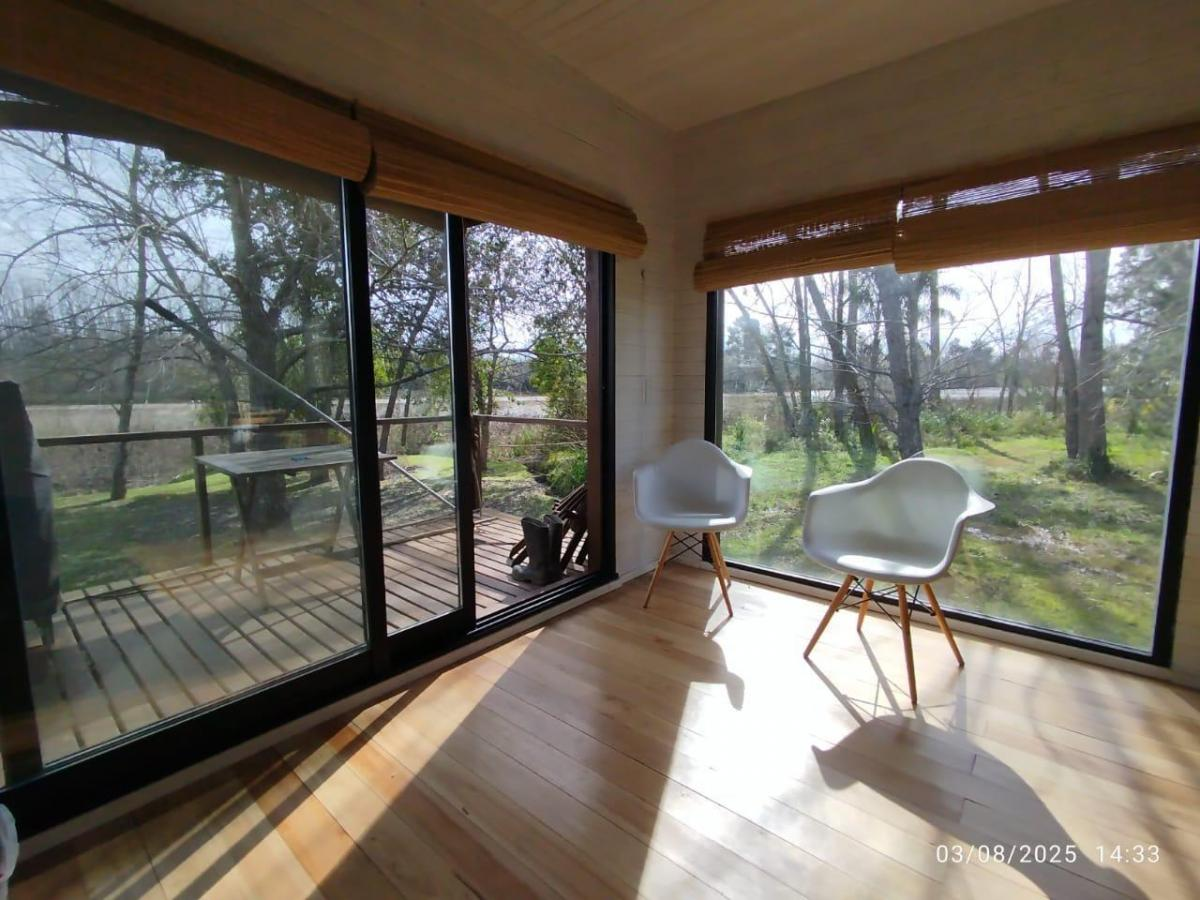
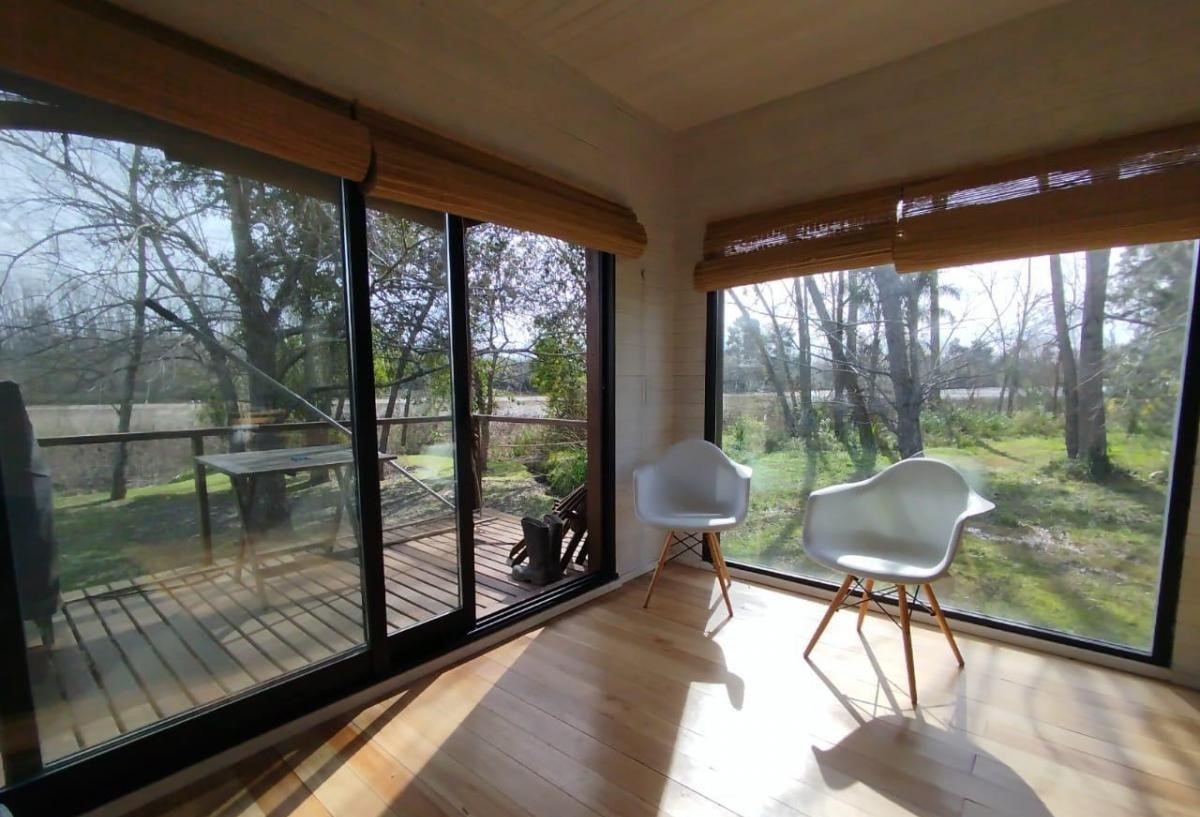
Ajustar fotos de cabaña

diff --git a/index.html b/index.html
@@ -223,9 +223,6 @@
           <button class="image-tile reveal" type="button" data-lightbox="assets/images/foto6.jpeg" data-caption="Vista del canal, muelle y vegetación">
             <img src="assets/images/foto6.jpeg" alt="Vista del canal, muelle y vegetación" loading="lazy">
           </button>
-          <button class="image-tile reveal" type="button" data-lightbox="assets/images/foto9.jpeg" data-caption="Dormitorio amplio con ventanales">
-            <img src="assets/images/foto9.jpeg" alt="Dormitorio amplio con ventanales" loading="lazy">
-          </button>
         </div>
       </div>
     </section>
